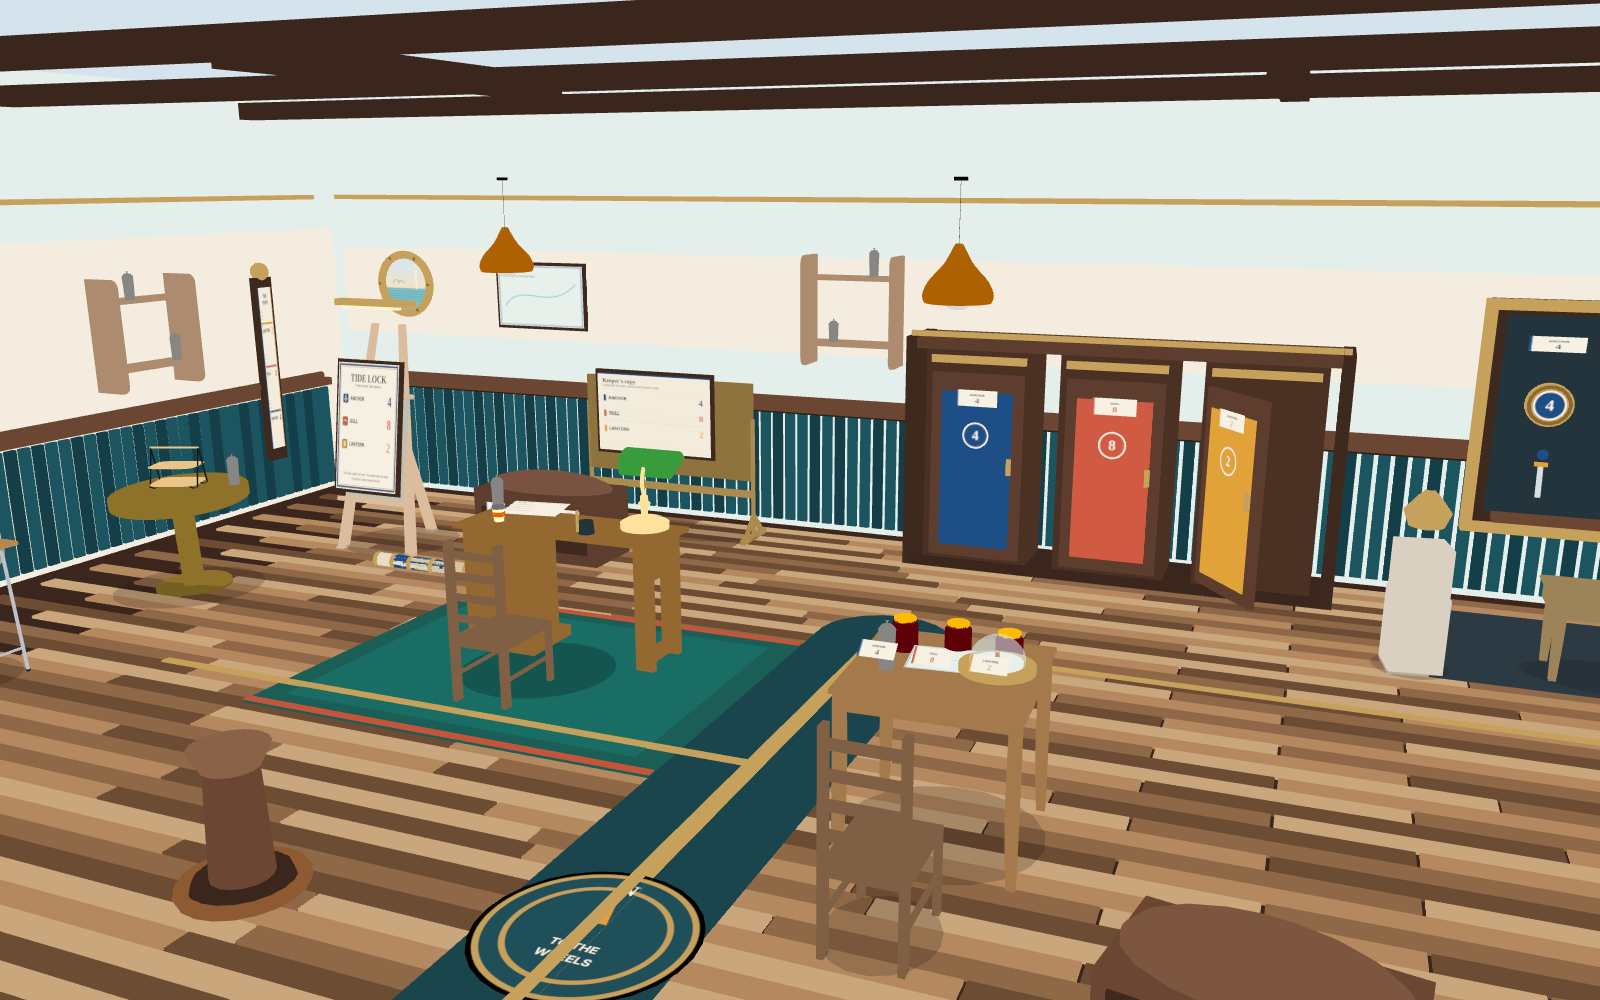
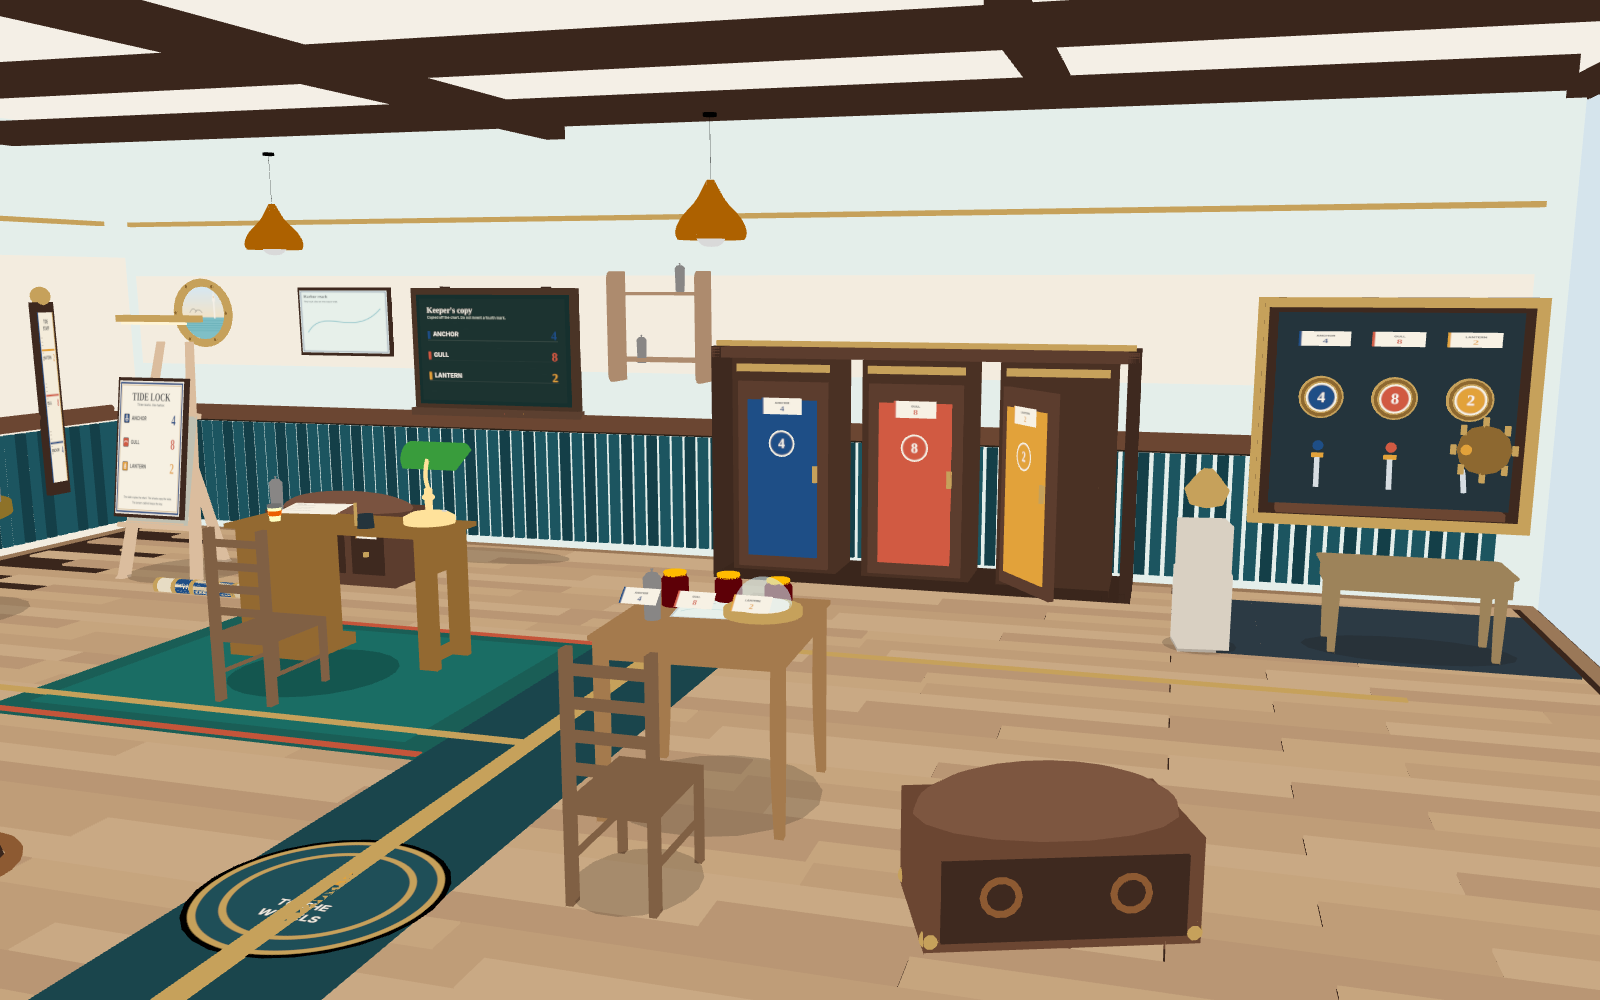
Soften the Tide Lock floor, close the ceiling, and hang the slate.
Quieter oak boards stop the deck stripes from dominating. A plaster ceiling with hung beams replaces the open roof. The entry camera holds the wheel panel, cabinet bank, clue table, and chest. The keeper's copy is a wall slate; the brown floor-stand bake stays hidden.

diff --git a/experiments/indoor-20261113/escape-room/escape-room.js b/experiments/indoor-20261113/escape-room/escape-room.js
@@ -1,7 +1,7 @@
 import * as THREE from 'three';
 import { boot, toon, addBox, addCyl } from './scene_lib.js';
 import {
-  tideChart, keeperSlate, deskLog, jarTag, dialFace, seaView, floorRose, mapSheet, tideStaff,
+  tideChart, chalkSlate, deskLog, jarTag, dialFace, seaView, floorRose, mapSheet, tideStaff,
 } from './panels.js';
 
 const ORDER = ['anchor', 'gull', 'lantern'];
@@ -95,19 +95,19 @@ function foliage(parent, x, z, y0) {
 }
 
 function deck(g, W, D) {
-  const tones = ['#c9a67c', '#b48960', '#8f6848', '#6d4c34'].map((c) => toon(c));
-  const plankW = 0.125;
-  const lengths = [1.45, 1.9, 2.2, 1.65];
+  const tones = ['#c6a57e', '#bf9d78', '#c9a984', '#b99674'].map((c) => toon(c));
+  const plankW = 0.18;
+  const lengths = [1.7, 2.15, 2.45, 1.9];
   let row = 0;
-  for (let z = -D / 2 + 0.2; z < D / 2 - 0.16; z += plankW) {
-    let x = -W / 2 + 0.18 + (row % 3) * 0.55;
+  for (let z = -D / 2 + 0.22; z < D / 2 - 0.18; z += plankW) {
+    let x = -W / 2 + 0.2 + (row % 3) * 0.48;
     let i = 0;
     while (x < W / 2 - 0.18) {
       const len = lengths[(row + i) % lengths.length];
       const x1 = Math.min(x + len, W / 2 - 0.16);
       const w = x1 - x;
-      if (w > 0.22) {
-        addBox(g, w - 0.014, 0.018, plankW - 0.014, tones[(row + i * 2) % tones.length], (x + x1) / 2, 0.009, z, { shadow: 'receive' });
+      if (w > 0.28) {
+        addBox(g, w - 0.006, 0.016, plankW - 0.006, tones[(row + i) % tones.length], (x + x1) / 2, 0.008, z, { shadow: 'receive' });
       }
       x = x1;
       i += 1;
@@ -140,10 +140,11 @@ function makeShell(layout) {
 
   addBox(g, W, 0.08, D, toon('#3a261c'), 0, -0.04, 0, { shadow: 'receive' });
   deck(g, W, D);
-  addBox(g, W - 0.08, 0.028, 0.09, deep, 0, 0.018, -D / 2 + 0.07, { shadow: 'none' });
-  addBox(g, W - 0.08, 0.028, 0.09, deep, 0, 0.018, D / 2 - 0.07, { shadow: 'none' });
-  addBox(g, 0.09, 0.028, D - 0.1, deep, -W / 2 + 0.07, 0.018, 0, { shadow: 'none' });
-  addBox(g, 0.09, 0.028, D - 0.1, deep, W / 2 - 0.07, 0.018, 0, { shadow: 'none' });
+  const border = wood('#9a7858');
+  addBox(g, W - 0.08, 0.02, 0.08, border, 0, 0.014, -D / 2 + 0.07, { shadow: 'none' });
+  addBox(g, W - 0.08, 0.02, 0.08, border, 0, 0.014, D / 2 - 0.07, { shadow: 'none' });
+  addBox(g, 0.08, 0.02, D - 0.1, border, -W / 2 + 0.07, 0.014, 0, { shadow: 'none' });
+  addBox(g, 0.08, 0.02, D - 0.1, border, W / 2 - 0.07, 0.014, 0, { shadow: 'none' });
 
   const rug = addBox(g, 2.35, 0.02, 1.85, toon(s.rug), -1.15, 0.02, -0.5, { shadow: 'receive' });
   rug.userData.shadow = 'receive';
@@ -214,11 +215,16 @@ function makeShell(layout) {
   addBox(g, 0.045, 0.035, D - 0.45, brassMat, innerL + 0.02, 2.48, 0.1);
   addBox(g, W - 0.4, 0.7, 0.02, warm, 0, 1.72, innerB + 0.012, { shadow: 'receive' });
 
-  for (const z of [-2.85, -0.85, 1.15]) {
-    addBox(g, W - 0.8, 0.12, 0.14, deep, -0.2, H - 0.18, z, { shadow: 'cast' });
+  const ceil = plaster(s.ceilingColor || '#f3efe6');
+  addBox(g, W, 0.1, D, ceil, 0, H - 0.05, 0, { shadow: 'receive' });
+  addBox(g, W + 0.06, 0.18, 0.14, deep, 0, H - 0.12, D / 2 - 0.04, { shadow: 'cast' });
+  addBox(g, 0.14, 0.18, D + 0.04, deep, W / 2 - 0.04, H - 0.12, 0, { shadow: 'cast' });
+  const beamY = H - 0.22;
+  for (const z of [-2.7, -0.7, 1.3]) {
+    addBox(g, W - 0.5, 0.16, 0.14, deep, -0.1, beamY, z, { shadow: 'cast' });
   }
-  addBox(g, 0.14, 0.12, 2.2, deep, -1.2, H - 0.22, 0.15, { shadow: 'cast' });
-  addBox(g, 0.14, 0.12, 1.6, deep, 2.4, H - 0.22, -1.7, { shadow: 'cast' });
+  addBox(g, 0.14, 0.16, D - 0.7, deep, -1.15, beamY, 0.1, { shadow: 'cast' });
+  addBox(g, 0.14, 0.16, 2.4, deep, 2.35, beamY, -1.4, { shadow: 'cast' });
 
   const buoy = new THREE.Group();
   const ringB = new THREE.Mesh(new THREE.TorusGeometry(0.26, 0.055, 10, 24), toon('#f4efe6'));
@@ -499,6 +505,28 @@ function porthole(parent, x, y, z) {
   parent.add(g);
 }
 
+function hangingSlate(parent, x, z, tex) {
+  const g = new THREE.Group();
+  const w = 1.36;
+  const h = 0.92;
+  const d = 0.07;
+  addBox(g, w, h, d, wood('#4a3426'), 0, 0, 0, { shadow: 'cast' });
+  addBox(g, w - 0.1, h - 0.1, 0.02, toon('#16302e'), 0, 0, d / 2);
+  const face = new THREE.Mesh(new THREE.PlaneGeometry(w - 0.16, h - 0.16), art(tex, { glow: 0.16 }));
+  face.position.z = d / 2 + 0.016;
+  face.userData.shadow = 'none';
+  g.add(face);
+  addBox(g, w + 0.04, 0.055, 0.09, wood('#5c4030'), 0, -h / 2 - 0.01, 0.02, { shadow: 'cast' });
+  const chalks = ['#f4efe4', '#1e4e86', '#d15a42', '#e2a23a'];
+  chalks.forEach((c, i) => {
+    addCyl(g, 0.012, 0.012, 0.09, toon(c), -0.28 + i * 0.16, -h / 2 - 0.01, 0.05, 8, { rotZ: Math.PI / 2 });
+  });
+  addBox(g, 0.08, 0.06, 0.08, wood('#3e291f'), -0.42, h / 2 - 0.02, -d / 2 - 0.02);
+  addBox(g, 0.08, 0.06, 0.08, wood('#3e291f'), 0.42, h / 2 - 0.02, -d / 2 - 0.02);
+  g.position.set(x, 1.52, z);
+  parent.add(g);
+}
+
 function staff(parent, x, z, tex) {
   const g = new THREE.Group();
   addBox(g, 0.18, 1.45, 0.045, wood('#3e291f'), 0, 1.15, 0, { shadow: 'cast' });
@@ -570,7 +598,7 @@ function makeProcedural(layout) {
   lightBar.userData.shadow = 'cast';
   addBox(g, 0.5, 0.018, 0.04, toon('#fff4d4', { emissive: '#fff4d4', emissiveIntensity: 0.85 }), a.easel.x, 1.75, a.easel.z + 0.17, { shadow: 'none' });
 
-  sheet(g, keeperSlate(digits), a.slate.x, 0.95, a.slate.z + 0.22, 0.92, 0.58);
+  hangingSlate(g, a.slate.x, -3.76, chalkSlate(digits));
   sheet(g, deskLog(digits), -1.42, 0.785, -0.95, 0.34, 0.22, 0.15, -1.48, false);
   sheet(g, mapSheet(), a.table.x, 0.745, a.table.z - 0.02, 0.32, 0.22, 0.1, -1.5, false);
   sheet(g, mapSheet(), -3.15, 1.72, -3.78, 0.78, 0.48, 0, 0, true);
@@ -605,7 +633,7 @@ function makeProcedural(layout) {
   pegRail(g, -5.12, 1.48, 3.25, Math.PI / 2);
   binoculars(g, -4.92, 1.04, 0.85, 0.7);
 
-  seaChest(g, 2.65, 1.52, -0.2);
+  seaChest(g, 2.72, 1.05, 0.35);
   bollard(g, -0.95, 1.82);
   chartChest(g, -2.35, -2.55, digits, colors);
   chartRolls(g, -2.95, -1.85);
@@ -654,6 +682,8 @@ boot({
     ORDER.forEach((key) => {
       if (rig.dials[key]) rig.dials[key].color = api.layout.meta.puzzle.colors[key];
     });
+    const stand = api.props.getObjectByName('slate');
+    if (stand) stand.visible = false;
   },
   onPick(hits, api) {
     for (const hit of hits) {

diff --git a/experiments/indoor-20261113/escape-room/panels.js b/experiments/indoor-20261113/escape-room/panels.js
@@ -125,6 +125,48 @@ export function tideChart(digits) {
   });
 }
 
+export function chalkSlate(digits) {
+  return canvas(1280, 860, (ctx, w, h) => {
+    ctx.fillStyle = '#1c3330';
+    ctx.fillRect(0, 0, w, h);
+    ctx.fillStyle = '#24403c';
+    for (let i = 0; i < 18; i++) {
+      ctx.globalAlpha = 0.35;
+      ctx.fillRect((i * 97) % w, 40 + (i * 53) % (h - 80), 46, 3);
+    }
+    ctx.globalAlpha = 1;
+    ctx.fillStyle = '#f4efe4';
+    font(ctx, 68, 700, SERIF);
+    ctx.textAlign = 'left';
+    ctx.fillText("Keeper's copy", 64, 100);
+    font(ctx, 30, 500, SANS);
+    ctx.fillStyle = '#d5dece';
+    ctx.fillText('Copied off the chart. Do not invent a fourth mark.', 64, 158);
+
+    ROWS.forEach((row, i) => {
+      const y = 300 + i * 175;
+      ctx.strokeStyle = '#c9d2c4';
+      ctx.globalAlpha = 0.35;
+      ctx.lineWidth = 2;
+      ctx.beginPath();
+      ctx.moveTo(64, y + 48);
+      ctx.lineTo(w - 64, y + 48);
+      ctx.stroke();
+      ctx.globalAlpha = 1;
+      ctx.fillStyle = row.color;
+      ctx.fillRect(64, y - 28, 22, 64);
+      ctx.fillStyle = '#f7f3ea';
+      font(ctx, 52, 650, SANS);
+      ctx.textAlign = 'left';
+      ctx.fillText(row.name, 112, y);
+      ctx.textAlign = 'right';
+      font(ctx, 100, 700, SERIF);
+      ctx.fillStyle = row.color;
+      ctx.fillText(String(digits[row.key]), w - 72, y + 8);
+    });
+  });
+}
+
 export function keeperSlate(digits) {
   return canvas(1280, 860, (ctx, w, h) => {
     ctx.fillStyle = '#f3ecdc';

diff --git a/experiments/indoor-20261113/escape-room/refs/GAP.md b/experiments/indoor-20261113/escape-room/refs/GAP.md
@@ -1,5 +1,12 @@
 # Gaps
 
+Visual pass after the second review:
+
+- Floor boards use a narrow oak range and hairline gaps, so the staggered pattern sits under the runner, desks, and cabinets instead of reading as deck stripes.
+- A plaster ceiling closes the roof. Beams hang under it, and a timber fascia finishes the open +X and +Z edges. Sky still shows through the cutaway wall.
+- The entry camera includes the wheel panel, the cabinet bank, the clue table, and the entry chest. The compass rose is still clipped at the bottom edge of that frame.
+- The keeper’s copy is a wall-hung slate: dark board, oak frame, chalk rail. The brown floor-stand GLB stays in the layout for the facing test and is hidden at runtime, because its silhouette is a wooden stand with a printed sheet.
+
 Refinement after the first review:
 
 - The entry camera sits closer, and the floor is staggered oak boards plus a runner, so the foreground is the route instead of one beige plane.
@@ -20,7 +27,7 @@ Still open:
 - No combination cabinet, dial, or telegraph GLB in the catalog. The bank, the wheels, the chests, the bollard, and the bell are shaped stand-ins (lathe, torus, cambered lid), not scanned hardware.
 - `display_bookcase` and `museum_vitrine` were inspected and left out. The bookcase has no materials and reads as a blank slab. The vitrine reads as a solid brown box, not glass. Using either as a “cabinet” would look like an empty crate.
 - The book stand was removed after the refinement pass. It stayed a dark column and sat in the aisle in front of the slate.
-- The chalkboard bake is a brown board on a floor stand, and its face is local +X. A paper sheet carries the readable copy. It is not a black chalkboard.
+- The chalkboard GLB is a brown floor stand. It is hidden. The readable slate is local geometry on the back wall, not a second easel poster.
 - The thermos GLB includes a loose cap beside the bottle. On the window desk the cap can sit near the edge.
 - The cash register is small and very dark. It reads at close range and as a silhouette in the wide shot.
 - Contact shadows are painted discs. Unlit shading drops emissive glow, so the lamp and the indicator gems stay their base colors and do not bloom.

diff --git a/experiments/indoor-20261113/escape-room/refs/QA.md b/experiments/indoor-20261113/escape-room/refs/QA.md
@@ -28,12 +28,21 @@ The shooter records console errors and network responses. It fails if a response
 
 What the frames are for:
 
-- Default: chart, slate, three cabinets, open lantern door, panel, desk, and the floor path in one view.
+- Default: chart, wall slate, three cabinets, open lantern door, the full wheel panel, the clue table, the entry chest, and the floor path in one view.
 - Corner: window desk, bench, and the long axis of the room.
 - Close: the chart type is large enough to read.
 - Unlit: the same default camera with lights ignored, so the palette has to carry the room.
 
 Findings from the rendered pass belong in the notes below this line once the shots exist.
+
+## Render notes, visual pass
+
+Shot again on 2026-11-13 after the floor, ceiling, framing, and slate pass. Same harness: headless Chrome, SwiftShader, 1600×1000, HUD hidden, `node shoot.mjs`. Zero console errors, zero failed responses, every request on `127.0.0.1:8813`. Default, corner, and close stayed on TOON. The fourth frame stayed on UNLIT (`MeshBasicMaterial`).
+
+- `toon_default`: quieter oak floor, plaster ceiling with hung beams, wall slate, cabinet bank, clue table, and the wheel panel (4, 8, 2) including the gear. The entry chest sits fully in the lower right. The compass rose is clipped along the bottom edge.
+- `toon_corner`: ceiling reads as a finished soffit. Slate text, cabinet doors, and all three wheels are in one view. The open right side is the cutaway wall.
+- `toon_close`: “TIDE LOCK”, Anchor 4, Gull 8, and Lantern 2 stay readable on the easel. The tide staff is on the left wall.
+- `unlit_default`: same camera. Floor, beadboard, cabinet colors, chart, and the dark slate still read from material color and the canvas maps. No lighting model.
 
 ## Render notes, refinement
 

diff --git a/experiments/indoor-20261113/escape-room/SPEC.md b/experiments/indoor-20261113/escape-room/SPEC.md
@@ -4,6 +4,6 @@ Harbor cipher study, cutaway on +X and +Z. Back wall −Z, window wall −X.
 
 The puzzle is one combination told four ways: the easel chart, the keeper’s slate, the jar tags on the clue table, and the wheels on the mechanical panel. A tide staff on the window wall and the chart chest repeat the same three marks. Three cabinets are built into one oak bank. The lantern door is the one left open, with the key inside.
 
-Walk the runner and brass strip from the floor rose, past the investigation desk, to the panel bench. A side branch reaches the window desk. Chairs face the desks and the clue table. The lamp shade points toward the sitter. The easel canvas and the slate face the room.
+Walk the runner and brass strip from the floor rose, past the investigation desk, to the panel bench. A side branch reaches the window desk. Chairs face the desks and the clue table. The lamp shade points toward the sitter. The easel canvas faces the room. The keeper’s copy is a slate hung on the back wall. The floor is a quiet oak board pattern. A plaster ceiling with hung beams closes the roof; the +X and +Z walls stay open as the cutaway.
 
 See `layout.json` for poses, cameras, and the circulation polyline. `tests/check_layout.py` checks them.

diff --git a/experiments/indoor-20261113/escape-room/ATTRIBUTIONS.md b/experiments/indoor-20261113/escape-room/ATTRIBUTIONS.md
@@ -28,4 +28,4 @@ Sources are Hugging Face `Sandflow/sand3d-objaverse` programs, CC-BY-4.0, plus t
 
 Three.js r170 (MIT) is `workshop/vendor/`, used read-only.
 
-Cabinets, dials, the mechanical panel, the chart, the slate sheet, the tide staff, the key, the compass, the bell, the chests, the bollard, the window view, and the plants are local geometry in `escape-room.js` and `panels.js`. They are not external models. The book stand GLB was inspected and not placed: it reads as a dark podium and was blocking the slate.
+Cabinets, dials, the mechanical panel, the chart, the wall slate, the tide staff, the key, the compass, the bell, the chests, the bollard, the window view, and the plants are local geometry in `escape-room.js` and `panels.js`. They are not external models. The chalkboard GLB stays in the layout and is hidden at runtime: its bake is a brown floor stand, and the readable slate is the local board. The book stand GLB was inspected and not placed: it reads as a dark podium and was blocking the slate.

diff --git a/experiments/indoor-20261113/escape-room/README.md b/experiments/indoor-20261113/escape-room/README.md
@@ -2,7 +2,7 @@
 
 A cutaway harbor office where the chart, the keeper’s slate, the tide staff, the brass wheels, and three combination cabinets all carry the same three marks. Daylight comes through the left window. A runner and a brass strip run from the entry rose to the mechanical panel.
 
-Not a library, and not a black box. Walls are plaster over teal beadboard. The readable focal point is the chart on the easel. The jars, the log, and the chart chest sit on the furniture someone would actually use.
+Not a library, and not a black box. Walls are plaster over teal beadboard, and a plaster ceiling closes the roof. The readable focal point is the chart on the easel. The keeper’s copy is a slate on the back wall. The jars, the log, and the chart chest sit on the furniture someone would actually use.
 
 ## Open
 
